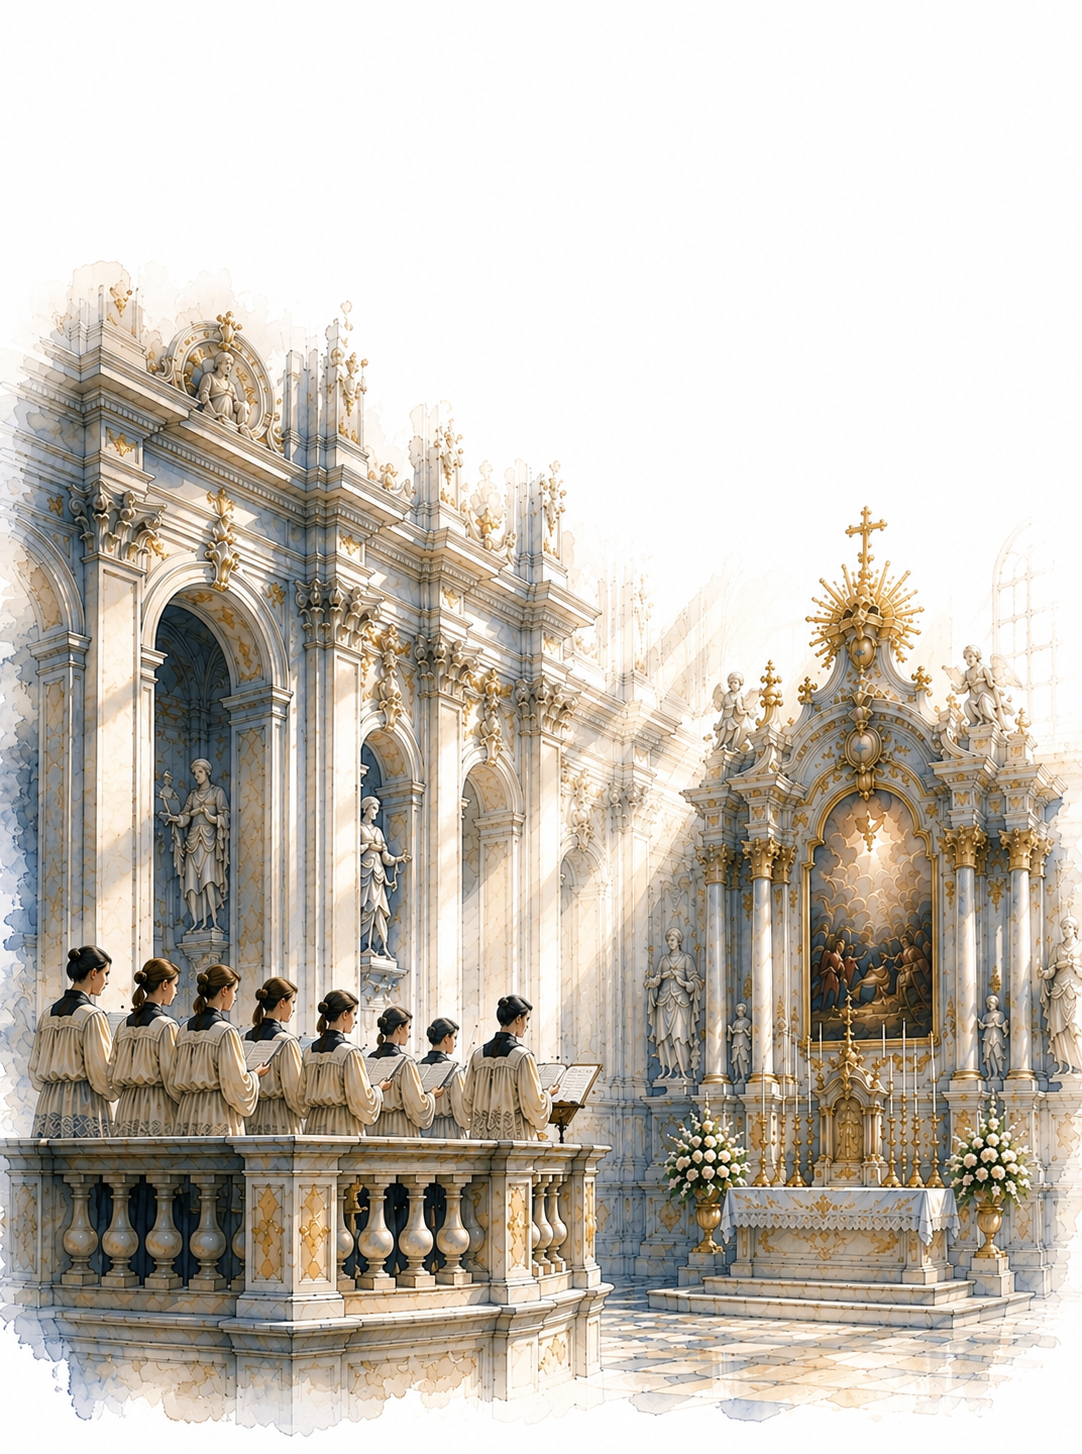
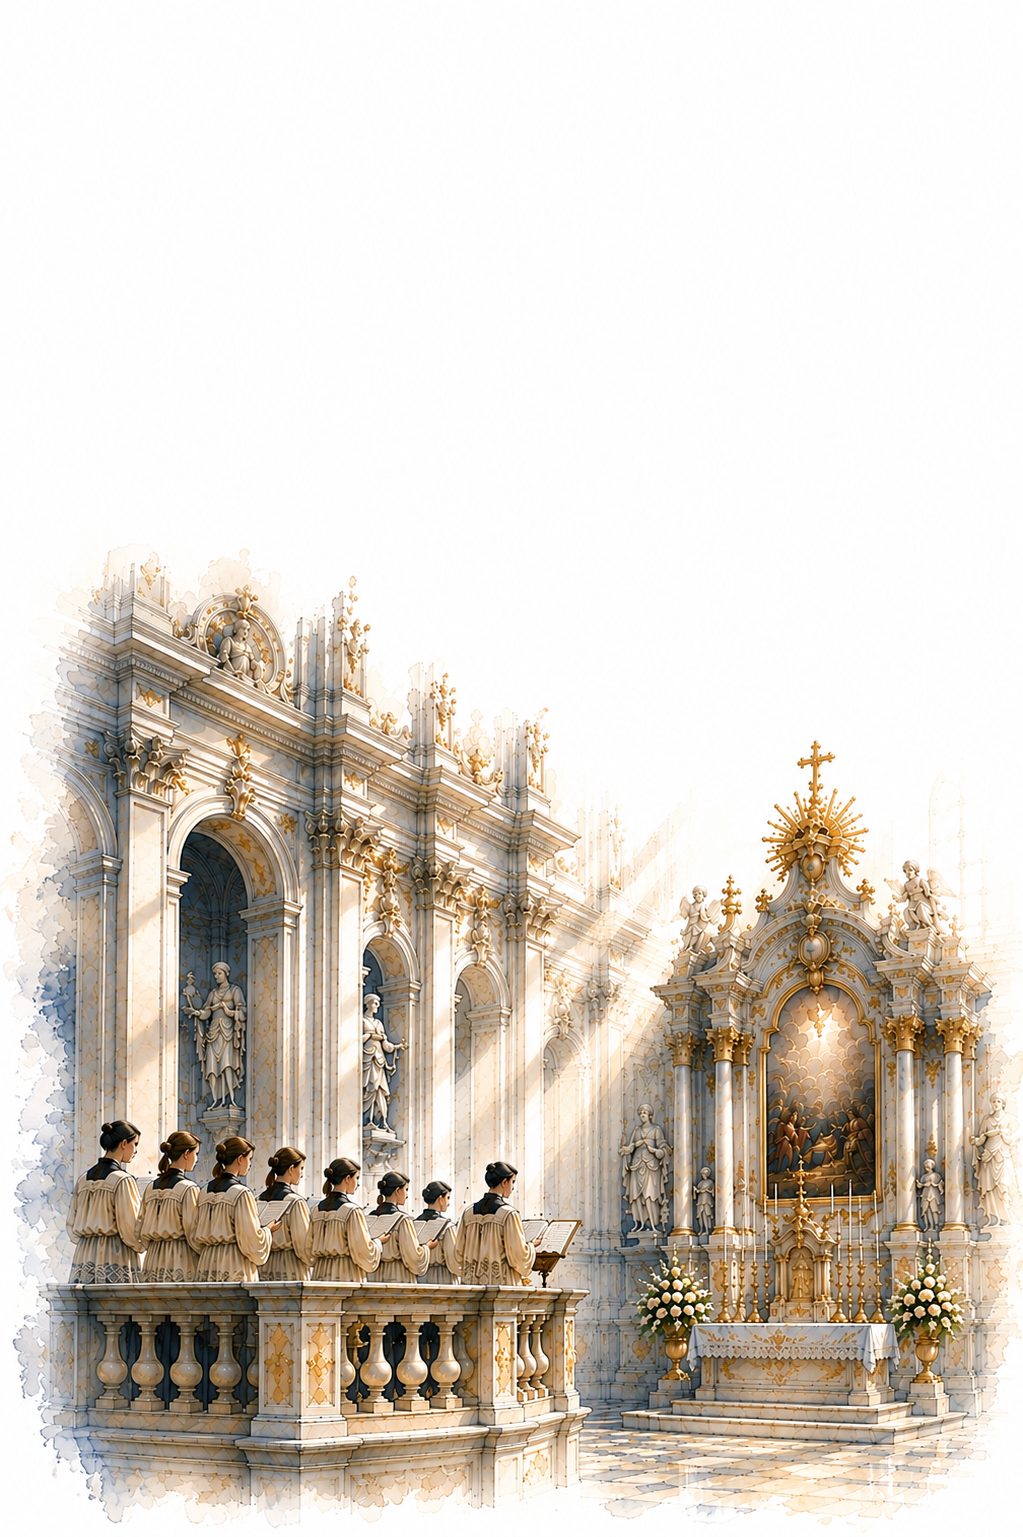
Allinea i fedeli alle card hero

diff --git a/css/barocco-key-concepts.css b/css/barocco-key-concepts.css
@@ -233,26 +233,6 @@ body[data-current-nucleus="barocco"] .topic-page--lesson .barocco-key-concepts__
   gap: 0.95rem;
 }
 
-.barocco-key-concepts__concept-card.has-cropped-image .barocco-key-concepts__card {
-  grid-template-rows: auto 1fr minmax(16rem, 20rem);
-}
-
-.barocco-key-concepts__concept-card.has-cropped-image .barocco-key-concepts__card-body {
-  padding-bottom: 0;
-}
-
-.barocco-key-concepts__concept-card.has-cropped-image .barocco-key-concepts__card-image {
-  position: relative;
-  inset: auto;
-  z-index: 0;
-  width: 100%;
-  height: 100%;
-  min-height: 0;
-  align-self: end;
-  background-position: var(--barocco-concept-image-position, 50% 100%);
-  background-size: var(--barocco-concept-image-size, cover);
-}
-
 @media (max-width: 980px) {
   .barocco-key-concepts__track {
     grid-auto-columns: clamp(19.5rem, 68vw, 23rem);
@@ -271,10 +251,6 @@ body[data-current-nucleus="barocco"] .topic-page--lesson .barocco-key-concepts__
 
   .barocco-key-concepts__concept-card.is-feature-card .barocco-key-concepts__card {
     min-height: clamp(25.5rem, 78vw, 29rem);
-  }
-
-  .barocco-key-concepts__concept-card.has-cropped-image .barocco-key-concepts__card {
-    grid-template-rows: auto 1fr minmax(14.5rem, 18rem);
   }
 }
 
@@ -314,14 +290,6 @@ body[data-current-nucleus="barocco"] .topic-page--lesson .barocco-key-concepts__
 
   .barocco-key-concepts__concept-card.is-feature-card .barocco-key-concepts__card-body {
     padding: 1.35rem 1.25rem 1rem;
-  }
-
-  .barocco-key-concepts__concept-card.has-cropped-image .barocco-key-concepts__card {
-    grid-template-rows: auto 1fr minmax(13rem, 15.5rem);
-  }
-
-  .barocco-key-concepts__concept-card.has-cropped-image .barocco-key-concepts__card-body {
-    padding-bottom: 0;
   }
 
   .barocco-key-concepts__card-title {

diff --git a/nuclei/barocco/argomenti/il-barocco-in-coordinate/index.html b/nuclei/barocco/argomenti/il-barocco-in-coordinate/index.html
@@ -16,7 +16,7 @@
     <link rel="stylesheet" href="../../../../css/barocco-coordinate-responsive.css?v=20260523-pillnav-restore-v1">
     <link rel="stylesheet" href="../../../../css/barocco-lesson-layout-final.css?v=1779532949">
     <link rel="stylesheet" href="../../../../css/barocco-editorial-bands.css?v=1779532949">
-    <link rel="stylesheet" href="../../../../css/barocco-key-concepts.css?v=20260523-key-concepts-static-large-v17">
+    <link rel="stylesheet" href="../../../../css/barocco-key-concepts.css?v=20260523-key-concepts-static-large-v18">
     <link rel="stylesheet" href="../../../../css/barocco-typography-unified.css?v=1779532949">
 </head>
 <body data-nav="timeline" data-current-nucleus="barocco">
@@ -126,7 +126,7 @@
 
         mountLessonBand(
             "barocco-key-concepts-root",
-            () => import("../../../../components/BaroccoKeyConcepts.module.js?v=20260523-key-concepts-static-large-v17")
+            () => import("../../../../components/BaroccoKeyConcepts.module.js?v=20260523-key-concepts-static-large-v18")
         );
     </script>
 </body>

diff --git a/components/BaroccoKeyConcepts.module.js b/components/BaroccoKeyConcepts.module.js
@@ -4,7 +4,6 @@ const h = React.createElement;
 
 const conceptAsset = (filename) => new URL(`../assets/${filename}`, import.meta.url).href;
 const featureCardIds = new Set(["celebrazione-potere", "coinvolgimento-fedeli", "teatri-pubblici"]);
-const croppedImageCardIds = new Set(["coinvolgimento-fedeli"]);
 
 const keyConcepts = [
   {
@@ -93,7 +92,7 @@ function ConceptCard({ concept }) {
   return h(
     "article",
     {
-      className: `barocco-key-concepts__concept-card${concept.image ? " has-image" : ""}${featureCardIds.has(concept.id) ? " is-feature-card" : ""}${croppedImageCardIds.has(concept.id) ? " has-cropped-image" : ""}`,
+      className: `barocco-key-concepts__concept-card${concept.image ? " has-image" : ""}${featureCardIds.has(concept.id) ? " is-feature-card" : ""}`,
       style: cardStyle,
       "aria-labelledby": `barocco-key-concept-title-${concept.id}`
     },